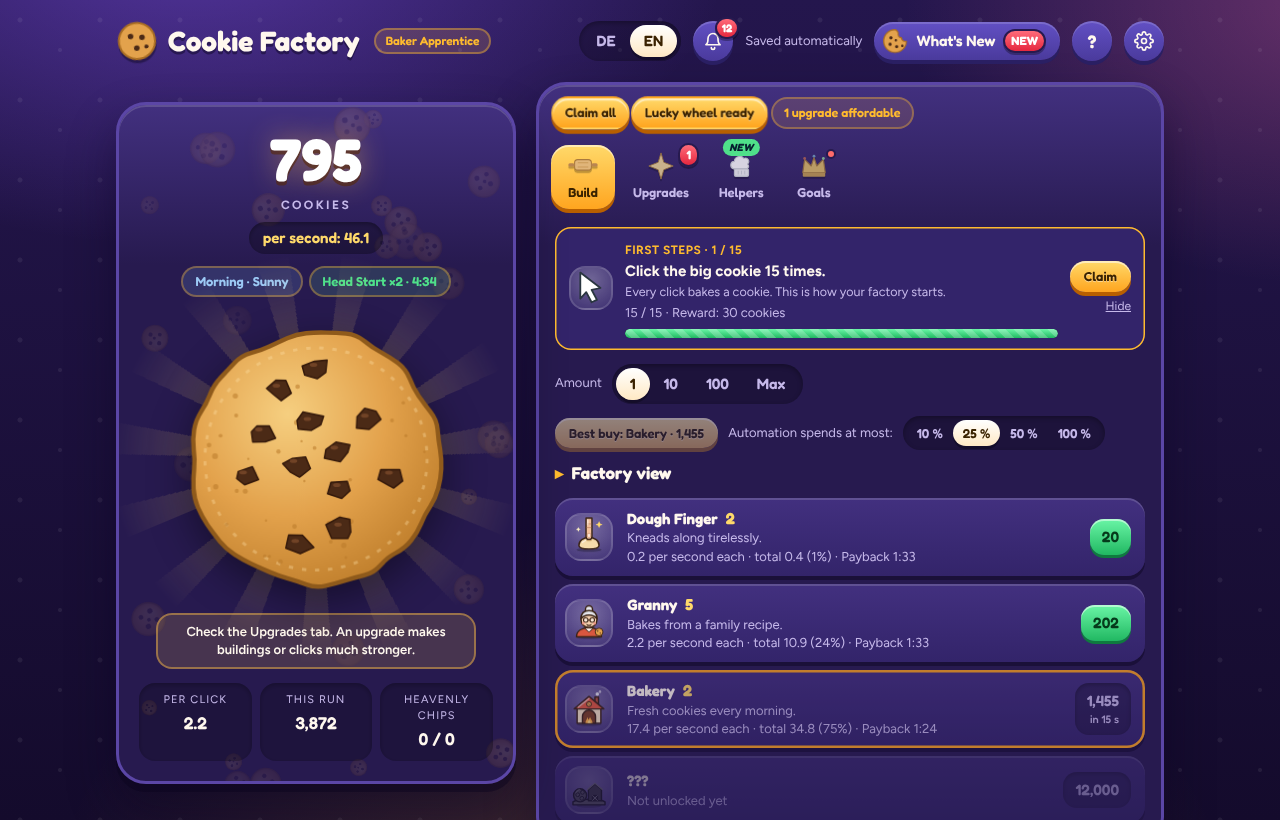
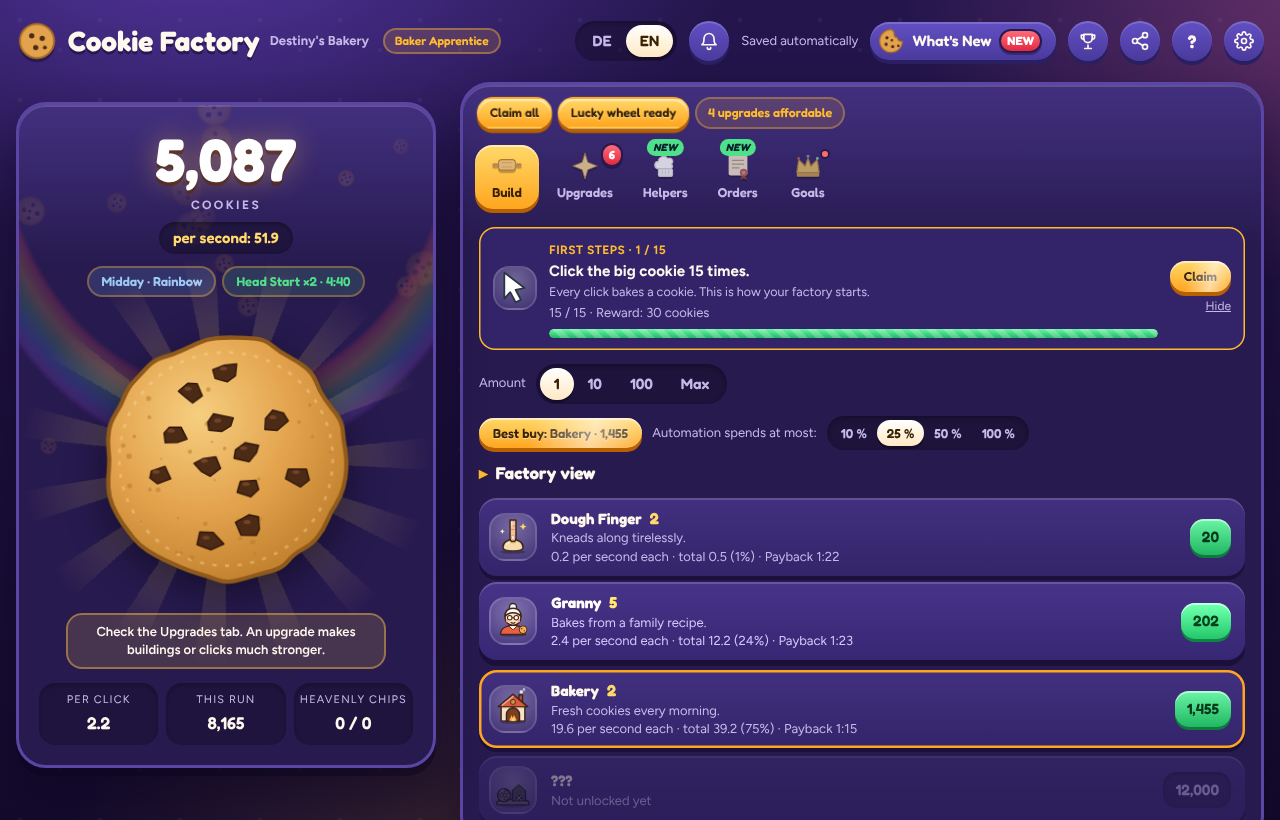
Adapt the layout to each device with a cleaner, smoother UI
- Detect phone, tablet or computer, touch or mouse, and upright or
  sideways before the first paint, and again on rotate/resize.
  Settings > Display shows the detected device and lets players pick
  a layout (stored per device).
- Phone sideways: cookie and shop side by side with a compact header.
  Phone upright: tighter cookie area so the shop peeks in. Tablet: two
  columns with bigger touch targets. Computer: wider layout with a
  one-row header.
- Smoother UI: gentle opening sequence, soft tab and dialog
  transitions, springy button presses, hover effects only with a
  mouse, lighter background pattern. Animations never leave a
  transform behind, so the phone tab bar stays fixed.
- What's New v39, README, gameplay screenshot, CLAUDE.md layout rules,
  cache v39, version.json 39.

Claude-Session: https://claude.ai/code/session_01QAbvaYzrU6fmE87XaDiUBq

diff --git a/index.html b/index.html
@@ -15,6 +15,29 @@
 <style>[hidden]{display:none!important}body{margin:0}img{max-width:100%}:root{padding-top:env(safe-area-inset-top,0px);padding-bottom:env(safe-area-inset-bottom,0px)}</style>
 </head>
 <body>
+<script>
+/* V39: Gerät erkennen, bevor die Seite gezeichnet wird. */
+(function(){
+  var de=document.documentElement,mm=function(q){try{return matchMedia(q).matches}catch(e){return false}};
+  function detect(){
+    var w=innerWidth,h=innerHeight,sh=Math.min(w,h),ua=navigator.userAgent||'',tp=navigator.maxTouchPoints||0;
+    var coarse=mm('(pointer: coarse)'),hover=mm('(hover: hover)');
+    var touch=coarse||(!hover&&tp>0);
+    var ipad=/iPad/.test(ua)||(navigator.platform==='MacIntel'&&tp>1);
+    var phoneUA=!ipad&&/iPhone|iPod|Android.+Mobile|Windows Phone/.test(ua);
+    var auto=touch?((phoneUA||sh<600)?'phone':'tablet'):(w<600?'phone':w<1000?'tablet':'desktop');
+    var pick=null;try{pick=localStorage.getItem('keksfabrik-device');}catch(e){}
+    var dev=(pick==='phone'||pick==='tablet'||pick==='desktop')?pick:auto;
+    var o=w>h?'landscape':'portrait',inp=touch?'touch':'mouse';
+    if(de.dataset.device!==dev) de.dataset.device=dev;
+    if(de.dataset.orient!==o) de.dataset.orient=o;
+    if(de.dataset.input!==inp) de.dataset.input=inp;
+    return {device:dev,auto:auto,pick:pick||'auto',orient:o,input:inp};
+  }
+  window.__kfDevice=detect;detect();
+  var t=0;addEventListener('resize',function(){clearTimeout(t);t=setTimeout(function(){detect();if(window.__kfDeviceChanged) window.__kfDeviceChanged();},120);});
+})();
+</script>
 <title>Keksfabrik</title>
 <link rel="preconnect" href="https://fonts.googleapis.com">
 <link rel="preconnect" href="https://fonts.gstatic.com" crossorigin>
@@ -1173,6 +1196,92 @@ body.eco *,body.eco *::before,body.eco *::after{animation:none!important;transit
 @keyframes bhPop{from{transform:scale(.85);opacity:0}to{transform:none;opacity:1}}
 .tut .twhy{display:block;color:var(--muted);font-size:12.5px;margin:1px 0 2px}
 :root[data-motion="off"] .rshine,:root[data-motion="off"] .bhint,:root[data-motion="off"] #worldPane .hero .hico{animation:none}
+
+/* ================= V39: Layouts für jedes Gerät, ruhiger und flüssiger ================= */
+:root{--ease-out:cubic-bezier(.2,.8,.2,1);--ease-spring:cubic-bezier(.2,1.3,.35,1)}
+html{-webkit-tap-highlight-color:transparent}
+@media (prefers-reduced-motion:no-preference){html{scroll-behavior:smooth}}
+:root[data-look] body::after{opacity:.045}
+
+/* Flüssige, einheitliche Rückmeldung */
+.btn,.tab,.seg button,.chip,.iconbtn,.gochip,.lbbar{transition:transform .2s var(--ease-spring),background-color .2s,color .2s,box-shadow .2s,opacity .2s,filter .2s}
+.btn:active,.tab:active,.seg button:active,.iconbtn:active,.chip:active,.gochip:active,.lbbar:active{transform:scale(.94)}
+:root[data-input="mouse"] .iconbtn:hover,:root[data-input="mouse"] .gochip:hover,:root[data-input="mouse"] .lbbar:hover{transform:translateY(-2px);filter:brightness(1.08)}
+:root[data-input="touch"] .cookie:hover svg{transform:none}
+:focus-visible{outline-offset:3px}
+
+/* Eröffnung und Reiterwechsel */
+.wrap>.top{animation:riseIn .5s var(--ease-out) backwards}
+.game>.stage{animation:riseIn .55s .07s var(--ease-out) backwards}
+/* Nur einblenden: eine Verschiebung würde die feste Reiterleiste am Handy mitnehmen. */
+.game>.store{animation:fadeIn2 .5s .14s var(--ease-out) backwards}
+.pane:not([hidden]){animation:paneIn .34s var(--ease-out)}
+.gsub:not([hidden]),.wsub:not([hidden]),.asub:not([hidden]){animation:paneIn .3s var(--ease-out)}
+.overlay:not([hidden])>.dlg{animation:dlgIn2 .34s var(--ease-spring)}
+@keyframes riseIn{from{opacity:0;transform:translateY(16px)}to{opacity:1;transform:none}}
+@keyframes fadeIn2{from{opacity:0}to{opacity:1}}
+@keyframes paneIn{from{opacity:0;transform:translateY(10px)}to{opacity:1;transform:none}}
+@keyframes dlgIn2{from{opacity:0;transform:translateY(14px) scale(.96)}to{opacity:1;transform:none}}
+
+/* Computer: breiter, Kopfzeile in einer Reihe */
+:root[data-device="desktop"] .wrap{max-width:1280px}
+@media (min-width:1200px){:root[data-device="desktop"] .game{grid-template-columns:minmax(360px,420px) minmax(0,1fr);gap:24px}}
+
+/* Tablet: zwei Spalten, große Tippflächen */
+@media (min-width:740px){
+  :root[data-device="tablet"] .wrap{max-width:1240px}
+  :root[data-device="tablet"] .game{grid-template-columns:minmax(280px,36%) minmax(0,1fr);align-items:start;gap:16px}
+  :root[data-device="tablet"] .stage{position:sticky;top:16px}
+  :root[data-device="tablet"] .stage-in{padding:22px 14px 16px}
+  :root[data-device="tablet"] .cookie-stage{width:min(100%,260px)}
+  :root[data-device="tablet"] .mini{gap:8px}
+}
+:root[data-device="tablet"] .tab{padding-top:8px;padding-bottom:8px}
+:root[data-device="tablet"] .iconbtn{width:44px;height:44px}
+
+/* Handy hochkant: kompakter, der Keks bleibt im Blick */
+:root[data-device="phone"][data-orient="portrait"] .wrap{padding-top:12px}
+:root[data-device="phone"][data-orient="portrait"] .top{margin-bottom:12px}
+:root[data-device="phone"][data-orient="portrait"] .stage-in{padding:18px 14px 14px}
+:root[data-device="phone"][data-orient="portrait"] .cookie-stage{width:min(100%,236px);margin:14px auto 10px}
+:root[data-device="phone"][data-orient="portrait"] .mini{margin-top:12px;padding-top:12px}
+
+/* Handy quer: Keks links, Laden rechts */
+:root[data-device="phone"][data-orient="landscape"] .wrap{max-width:none;padding-block:8px 16px}
+:root[data-device="phone"][data-orient="landscape"] .top{margin-bottom:8px;gap:8px;flex-wrap:nowrap}
+:root[data-device="phone"][data-orient="landscape"] .topr{flex-wrap:nowrap;gap:6px}
+:root[data-look][data-device="phone"][data-orient="landscape"] h1{font-size:19px}
+:root[data-look][data-device="phone"][data-orient="landscape"] .logo{width:30px;height:30px}
+:root[data-device="phone"][data-orient="landscape"] .plname,:root[data-device="phone"][data-orient="landscape"] .ttlchip,:root[data-device="phone"][data-orient="landscape"] .note,:root[data-device="phone"][data-orient="landscape"] .newsbtn>span[data-i18n]{display:none!important}
+:root[data-device="phone"][data-orient="landscape"] .iconbtn{width:36px;height:36px}
+:root[data-device="phone"][data-orient="landscape"] .game{grid-template-columns:minmax(220px,34%) minmax(0,1fr);gap:10px;align-items:start}
+:root[data-device="phone"][data-orient="landscape"] .stage{position:sticky;top:8px}
+:root[data-device="phone"][data-orient="landscape"] .stage-in{padding:10px 10px 10px}
+:root[data-look][data-device="phone"][data-orient="landscape"] .count{font-size:32px}
+:root[data-device="phone"][data-orient="landscape"] .cookie-stage{width:min(100%,44vh,190px);margin:6px auto 4px}
+:root[data-device="phone"][data-orient="landscape"] .bhint{display:none!important}
+:root[data-device="phone"][data-orient="landscape"] .mini{margin-top:6px;padding-top:6px;gap:4px}
+:root[data-device="phone"][data-orient="landscape"] .mini dt{font-size:9px}
+:root[data-look][data-device="phone"][data-orient="landscape"] .tabs{position:static;border-radius:0;padding:10px 14px;background:none;border:0;box-shadow:none}
+:root[data-look][data-device="phone"][data-orient="landscape"] .wrap{padding-bottom:16px}
+:root[data-look][data-device="phone"][data-orient="landscape"] .toasts{padding-bottom:0}
+
+/* Feinschliff Handy */
+:root[data-device="phone"][data-orient="portrait"] .cookie-stage{width:min(100%,210px);margin:10px auto 8px}
+:root[data-look][data-device="phone"][data-orient="portrait"] .count{font-size:44px}
+:root[data-device="phone"][data-orient="portrait"] .unit{margin-top:4px}
+:root[data-device="phone"][data-orient="portrait"] .bhint{font-size:12.5px;padding:6px 12px;margin-bottom:4px}
+:root[data-device="phone"] .mini dt{letter-spacing:.06em}
+:root[data-device="phone"][data-orient="portrait"] .mini{gap:8px}
+:root[data-device="phone"][data-orient="landscape"] .unit{display:none}
+:root[data-device="phone"][data-orient="landscape"] .kps{margin-top:4px;font-size:13px}
+:root[data-device="phone"][data-orient="landscape"] .buffs{flex-wrap:nowrap;gap:4px;margin-top:6px;overflow:hidden;justify-content:center}
+:root[data-device="phone"][data-orient="landscape"] .buffs .buff{font-size:10.5px;padding:2px 8px;white-space:nowrap;min-width:0;overflow:hidden;text-overflow:ellipsis}
+:root[data-device="phone"][data-orient="landscape"] .cookie-stage{width:min(100%,40vh,170px)}
+
+/* Einstellungen: erkanntes Gerät */
+.devinfo{display:flex;align-items:center;gap:10px;flex-wrap:wrap;margin-top:6px;color:var(--muted);font-size:13px}
+.devinfo b{color:var(--fg)}
 </style>
 
 <div class="wrap">
@@ -1376,6 +1485,12 @@ body.eco *,body.eco *::before,body.eco *::after{animation:none!important;transit
 <div class="seg setseg" id="setSeg"><button type="button" data-sp="disp" aria-pressed="true"></button><button type="button" data-sp="snd" aria-pressed="false"></button><button type="button" data-sp="game" aria-pressed="false"></button><button type="button" data-sp="save" aria-pressed="false"></button><button type="button" data-sp="admin" aria-pressed="false" data-i18n="tab_admin"></button></div>
 <p class="small" id="setNone" hidden></p>
 <div class="spane" data-spane="opt">
+        <div class="optsec" data-sc="disp">
+          <h2 id="devT"></h2>
+          <p class="small" id="devP"></p>
+          <div class="seg" id="devSeg" style="margin-top:8px"><button type="button" data-dev="auto"></button><button type="button" data-dev="phone"></button><button type="button" data-dev="tablet"></button><button type="button" data-dev="desktop"></button></div>
+          <div class="devinfo" id="devInfo"></div>
+        </div>
         <div class="optsec" data-sc="disp">
           <h2 data-i18n="opt_lang"></h2>
           <div class="seg langseg">
@@ -2367,8 +2482,13 @@ const SKINS=[
   {id:'custom',need:0,custom:1,name:['Eigenes Design','My design']},
   {id:'void',need:1e24,name:['Leere','Void'],c:['#4a4a58','#1c1c24','#08080c'],stroke:'#000000',chip:'#c8a2ff',chipS:'#7a52c4',hi:'#ffffff',speck:'#5a5a72'}
 ];
-const NEWS_VER=38;
+const NEWS_VER=39;
 const NEWS=[
+  {v:39,sum:['Neu: Ein Layout für jedes Gerät, dazu ein ruhigeres Design und flüssigere Animationen.','New: A layout for every device, plus a cleaner look and smoother animations.'],items:[
+    ['new','Das Spiel erkennt, ob du am Handy, Tablet oder Computer spielst, und passt sich an. Am Handy quer stehen Keks und Laden nebeneinander, am Tablet in zwei Spalten, am Computer breiter.','The game detects whether you play on a phone, tablet or computer and adapts. On a phone held sideways the cookie and shop sit side by side, tablets get two columns, and computers a wider layout.'],
+    ['new','Unter Einstellungen → Anzeige siehst du das erkannte Gerät und kannst das Layout selbst wählen.','Under Settings → Display you can see the detected device and pick the layout yourself.'],
+    ['change','Ruhigeres Design und flüssigere Animationen: sanfter Start, weiche Reiterwechsel, federnde Knöpfe. Hover-Effekte gibt es nur noch mit der Maus.','Cleaner look and smoother animations: a gentle start, soft tab changes and springy buttons. Hover effects now only appear with a mouse.']
+  ]},
   {v:38,sum:['Updates kommen jetzt sofort an.','Updates now arrive right away.'],items:[
     ['new','Wenn es eine neue Version gibt, erscheint oben ein Hinweis. Ein Tipp auf „Jetzt aktualisieren“ lädt sie, dein Spielstand wird vorher gespeichert.','When a new version is out, a notice appears at the top. Tap “Update now” to load it. Your game is saved first.'],
     ['change','Das Spiel holt sich beim Öffnen immer die neueste Version, statt bis zu 10 Minuten eine alte zu zeigen.','The game always loads the newest version when you open it, instead of showing an old one for up to 10 minutes.']
@@ -7604,7 +7724,7 @@ function updV34Txt(){
   set('shareT',tt('Teilen','Share'));
   set('shareP',tt('Kopiere diesen Text und schick ihn deinen Freunden.','Copy this text and send it to your friends.'));
   set('shareCopy',tt('Kopieren','Copy'));set('shareClose',tt('Schließen','Close'));
-  updApp();renderLb();
+  updApp();renderLb();updDev();
 }
 
 /* ======================= V35: Bestenliste ======================= */
@@ -7708,6 +7828,26 @@ setInterval(()=>{if(!lbOn()) return;const c=lbCheat();if(c!==lbCheatWas){lbCheat
 if(lbOn()&&S.lb.on) setTimeout(lbRefresh,3000);
 function tampWarn(){toast(tt('Dieser Spielstand wurde außerhalb des Spiels verändert. Er kann nicht in die Bestenliste.','This save was changed outside the game. It can’t join the leaderboard.'),true);updV34Txt();}
 if(S.tamp&&hadSave&&!S.tampSeen){S.tampSeen=1;setTimeout(tampWarn,1500);}
+
+/* ======================= V39: Gerät & Layout ======================= */
+const DEVN={auto:['Automatisch','Automatic'],phone:['Handy','Phone'],tablet:['Tablet','Tablet'],desktop:['Computer','Computer']};
+function updDev(){
+  const d=window.__kfDevice?window.__kfDevice():{device:'desktop',auto:'desktop',pick:'auto',orient:'landscape',input:'mouse'};
+  const set=(id,t)=>{const e=$id(id);if(e&&e.textContent!==t) e.textContent=t;};
+  set('devT',tt('Layout für dein Gerät','Layout for your device'));
+  set('devP',tt('Das Spiel erkennt dein Gerät und passt die Ansicht an. Du kannst das Layout hier auch selbst wählen.','The game detects your device and adapts the view. You can also pick the layout yourself here.'));
+  document.querySelectorAll('#devSeg [data-dev]').forEach(b=>{b.textContent=tx(DEVN[b.dataset.dev]);b.setAttribute('aria-pressed',b.dataset.dev===d.pick?'true':'false');});
+  const info=$id('devInfo');if(info){
+    const h=tt('Erkannt: ','Detected: ')+'<b>'+tx(DEVN[d.auto])+'</b> · '+(d.input==='touch'?tt('Touch','touch'):tt('Maus','mouse'))+' · '+(d.orient==='portrait'?tt('hochkant','upright'):tt('quer','sideways'))+(d.pick!=='auto'?' · '+tt('Gewählt: ','Chosen: ')+'<b>'+tx(DEVN[d.device])+'</b>':'');
+    if(info._h!==h){info._h=h;info.innerHTML=h;}
+  }
+}
+$id('devSeg').addEventListener('click',e=>{
+  const b=e.target.closest('[data-dev]');if(!b) return;
+  try{if(b.dataset.dev==='auto') localStorage.removeItem('keksfabrik-device');else localStorage.setItem('keksfabrik-device',b.dataset.dev);}catch(x){}
+  updDev();toast(tt('Layout: ','Layout: ')+tx(DEVN[b.dataset.dev]));
+});
+window.__kfDeviceChanged=updDev;
 
 /* ======================= V38: Neue Version sofort melden ======================= */
 let updShown=0,updLast=0;

diff --git a/sw.js b/sw.js
@@ -1,6 +1,6 @@
 // Keksfabrik service worker: lets the game open offline and as an installed app.
 // Raise CACHE with every game update (see CLAUDE.md) so old files are cleared out.
-const CACHE = 'keksfabrik-v38';
+const CACHE = 'keksfabrik-v39';
 const CORE = ['./', './index.html', './manifest.webmanifest', './icons/icon-192.png', './icons/icon-512.png', './icons/icon-maskable-512.png', './icons/apple-touch-icon.png'];
 
 self.addEventListener('install', (e) => {

diff --git a/README.md b/README.md
@@ -42,6 +42,7 @@ Cookie Factory is a free idle game you play right in your browser, on desktop or
 | 🎁 **Secret codes** | Type a code under **Settings → Game** to get cookies, gems or a boost. Each code works once per save. |
 | 📁 **Save files** | Download your save as a file and load it on another device. |
 | 📱 **Install as an app** | Add the game to your home screen. It opens full-screen and works offline. |
+| 📐 **Fits every device** | Separate layouts for phones (upright and sideways), tablets and computers, picked automatically or in **Settings → Display**. |
 | 🔄 **Instant updates** | New versions load right away, and a notice at the top lets you update while playing. |
 | 📣 **Share button** | Show your friends how many cookies your bakery has baked. |
 | 🏆 **Leaderboard** | Tap the trophy at the top (or open the **Goals** tab), join with your bakery name and see your rank among everyone's bakeries. |
@@ -75,6 +76,7 @@ Keksfabrik ist ein kostenloses Idle-Spiel, das direkt im Browser läuft, am Comp
 - 🎁 **Geheime Codes** unter **Einstellungen → Spiel**: Kekse, Edelsteine oder ein Schub, einmal pro Spielstand
 - 📁 **Spielstand als Datei** herunterladen und auf einem anderen Gerät laden
 - 📱 **Als App installieren**: auf dem Startbildschirm, im Vollbild und ohne Internet
+- 📐 **Passt auf jedes Gerät**: eigene Layouts für Handy (hochkant und quer), Tablet und Computer
 - 🔄 **Sofortige Updates**: neue Versionen kommen gleich an, oben erscheint ein Hinweis zum Aktualisieren
 - 📣 **Teilen-Knopf**: zeig deinen Freunden, wie viele Kekse du gebacken hast
 - 🏆 **Bestenliste**: tippe oben auf den Pokal (oder öffne den Tab **Ziele**) und mach mit deinem Bäckerei-Namen mit
@@ -88,15 +90,17 @@ Keksfabrik ist ein kostenloses Idle-Spiel, das direkt im Browser läuft, am Comp
 
 ## 📝 What's new · Neuigkeiten
 
-### Version 38
-- **New:** When a new version is out, a notice appears at the top of the game. Tap **Update now** to load it. Your game is saved first.
-- **Changed:** The game always loads the newest version when you open it, instead of showing an old one for up to 10 minutes.
+### Version 39
+- **New:** A layout for every device. The game detects whether you're on a phone, tablet or computer, and whether you hold your phone upright or sideways. Phones held sideways show the cookie and shop side by side, tablets get two columns, and computers a wider layout with a one-row header.
+- **New:** Under **Settings → Display** you can see the detected device and pick a layout yourself.
+- **Changed:** A cleaner look with smoother animations: a gentle start, soft tab changes and springy buttons. Hover effects only appear when you use a mouse.
 
 <details>
 <summary>Deutsch</summary>
 
-- **Neu:** Wenn es eine neue Version gibt, erscheint oben im Spiel ein Hinweis. Tippe auf **Jetzt aktualisieren**, um sie zu laden. Dein Spielstand wird vorher gespeichert.
-- **Geändert:** Das Spiel lädt beim Öffnen immer die neueste Version, statt bis zu 10 Minuten eine alte zu zeigen.
+- **Neu:** Ein Layout für jedes Gerät. Das Spiel erkennt, ob du am Handy, Tablet oder Computer spielst und ob du das Handy hochkant oder quer hältst. Am Handy quer stehen Keks und Laden nebeneinander, am Tablet in zwei Spalten, am Computer breiter mit einer Kopfzeile in einer Reihe.
+- **Neu:** Unter **Einstellungen → Anzeige** siehst du das erkannte Gerät und kannst das Layout selbst wählen.
+- **Geändert:** Ruhigeres Design mit flüssigeren Animationen: sanfter Start, weiche Reiterwechsel und federnde Knöpfe. Hover-Effekte gibt es nur mit der Maus.
 
 </details>
 

diff --git a/CLAUDE.md b/CLAUDE.md
@@ -51,6 +51,12 @@ All player-facing text exists in German and English. Use `tt('Deutsch','English'
 - **Server:** `submit_score` in `docs/leaderboard-setup.sql` rejects new entries above 1e15 and growth above 10x per 5 minutes (above 100 million). The game sends a score at most every 5 minutes (`S.lb.t`) so honest players stay inside that limit. Changes to it must also be given to the owner as a paste-ready SQL file (like `docs/leaderboard-anticheat-update.sql`) to run in the Supabase SQL Editor.
 - No browser game can stop someone who edits the game code itself; these checks catch the common tricks and protect the leaderboard.
 
+## Device layouts
+
+- An inline script at the top of `<body>` sets `data-device` (phone / tablet / desktop), `data-orient` (portrait / landscape) and `data-input` (touch / mouse) on `<html>` before the page paints, and again on resize. A manual choice is stored in `localStorage['keksfabrik-device']` (per device, not in the save).
+- Per-device CSS lives in the `V39` block at the end of the main stylesheet. Check layout changes on phone upright and sideways, tablet upright and sideways, and desktop.
+- Never animate `transform` on an element that contains a `position: fixed` child (like the phone tab bar inside `.store`), or the fixed child moves with it. Opening animations use `backwards` fill so nothing stays applied afterwards.
+
 ## Shipping changes
 
 - The owner asked Claude to **merge its own pull requests into `main`** without waiting for them, once all tests pass. After merging, check the GitHub Pages deploy finished and that the live site serves the new `NEWS_VER`.
